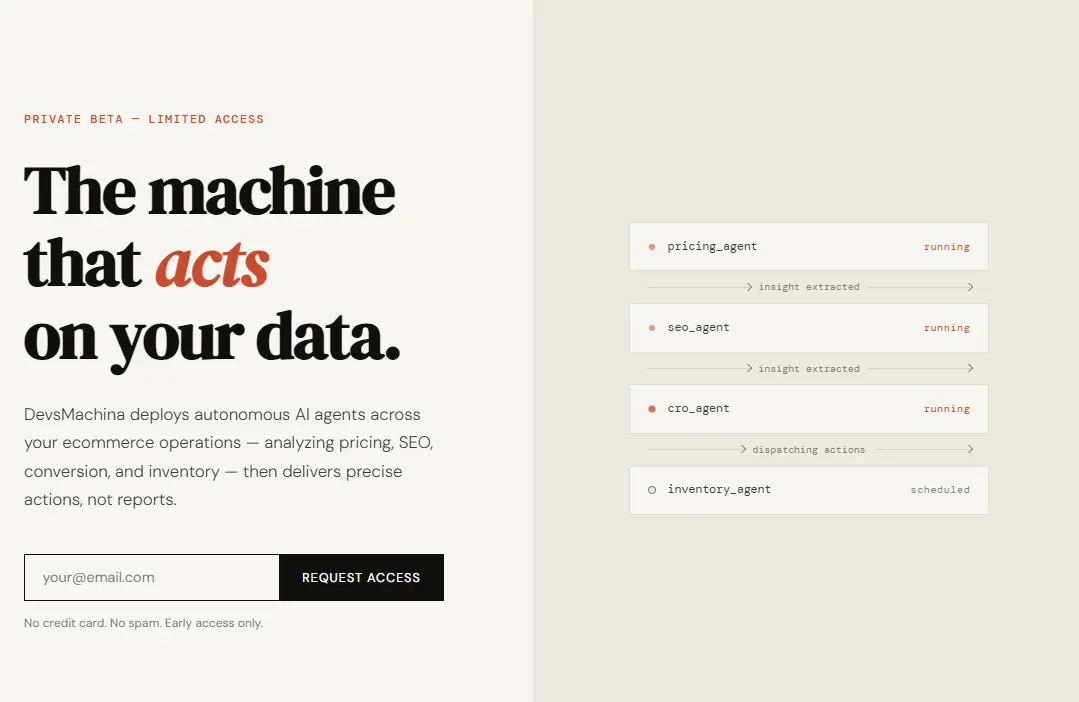
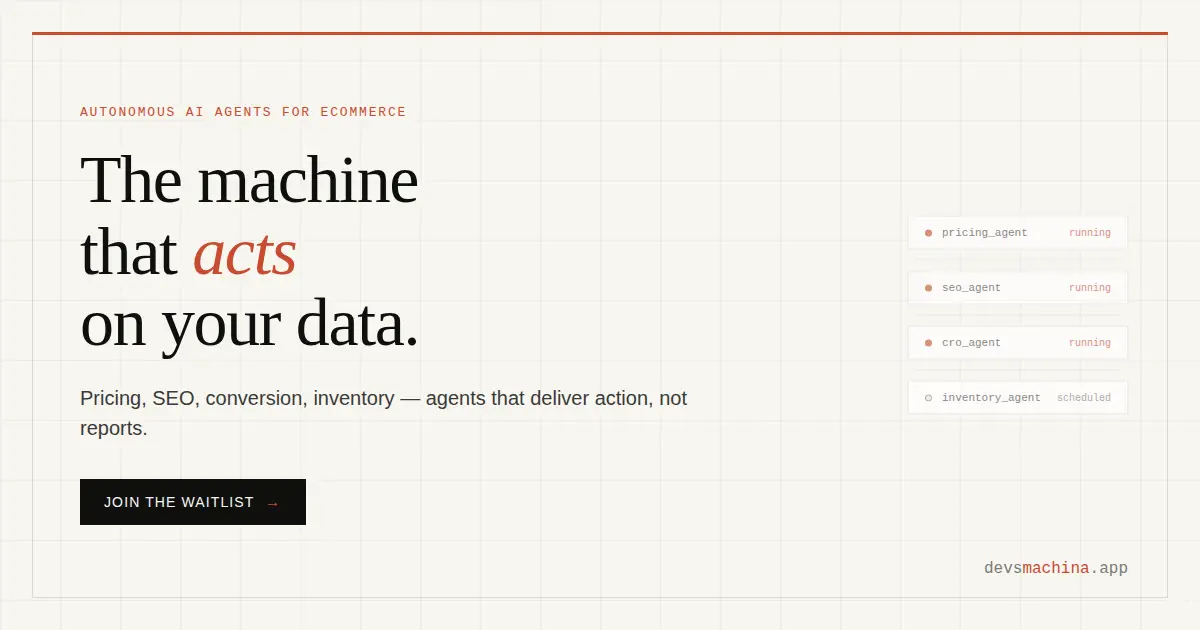
updated og image and meta data
per opengraph tips

diff --git a/index.html b/index.html
@@ -3,10 +3,10 @@
 <head>
   <meta charset="UTF-8">
   <meta name="viewport" content="width=device-width, initial-scale=1.0">
-  <title>DevsMachina — AI Agents for Ecommerce Operations</title>
-  <meta name="description" content="DevsMachina deploys autonomous AI agents that analyze your store data, extract actionable insights, and deliver them where they matter. Built for WooCommerce and DTC brands.">
-  <meta property="og:title" content="DevsMachina — AI Agents for Ecommerce Operations">
-  <meta property="og:description" content="Autonomous AI agents that turn raw store data into decisive action.">
+  <title>DevsMachina — Autonomous AI Agents for Your Store</title>
+  <meta name="description" content="Deploy specialized AI agents across pricing, SEO, conversion, and inventory. Built for WooCommerce and DTC brands that need action, not reports.">
+  <meta property="og:title" content="DevsMachina — Autonomous AI Agents for Your Store">
+  <meta property="og:description" content="Deploy specialized AI agents across pricing, SEO, conversion, and inventory. Built for WooCommerce and DTC brands that need action, not reports.">
   <meta property="og:type" content="website">
   <meta name="twitter:card" content="summary_large_image">
   <link rel="canonical" href="https://devsmachina.app">
